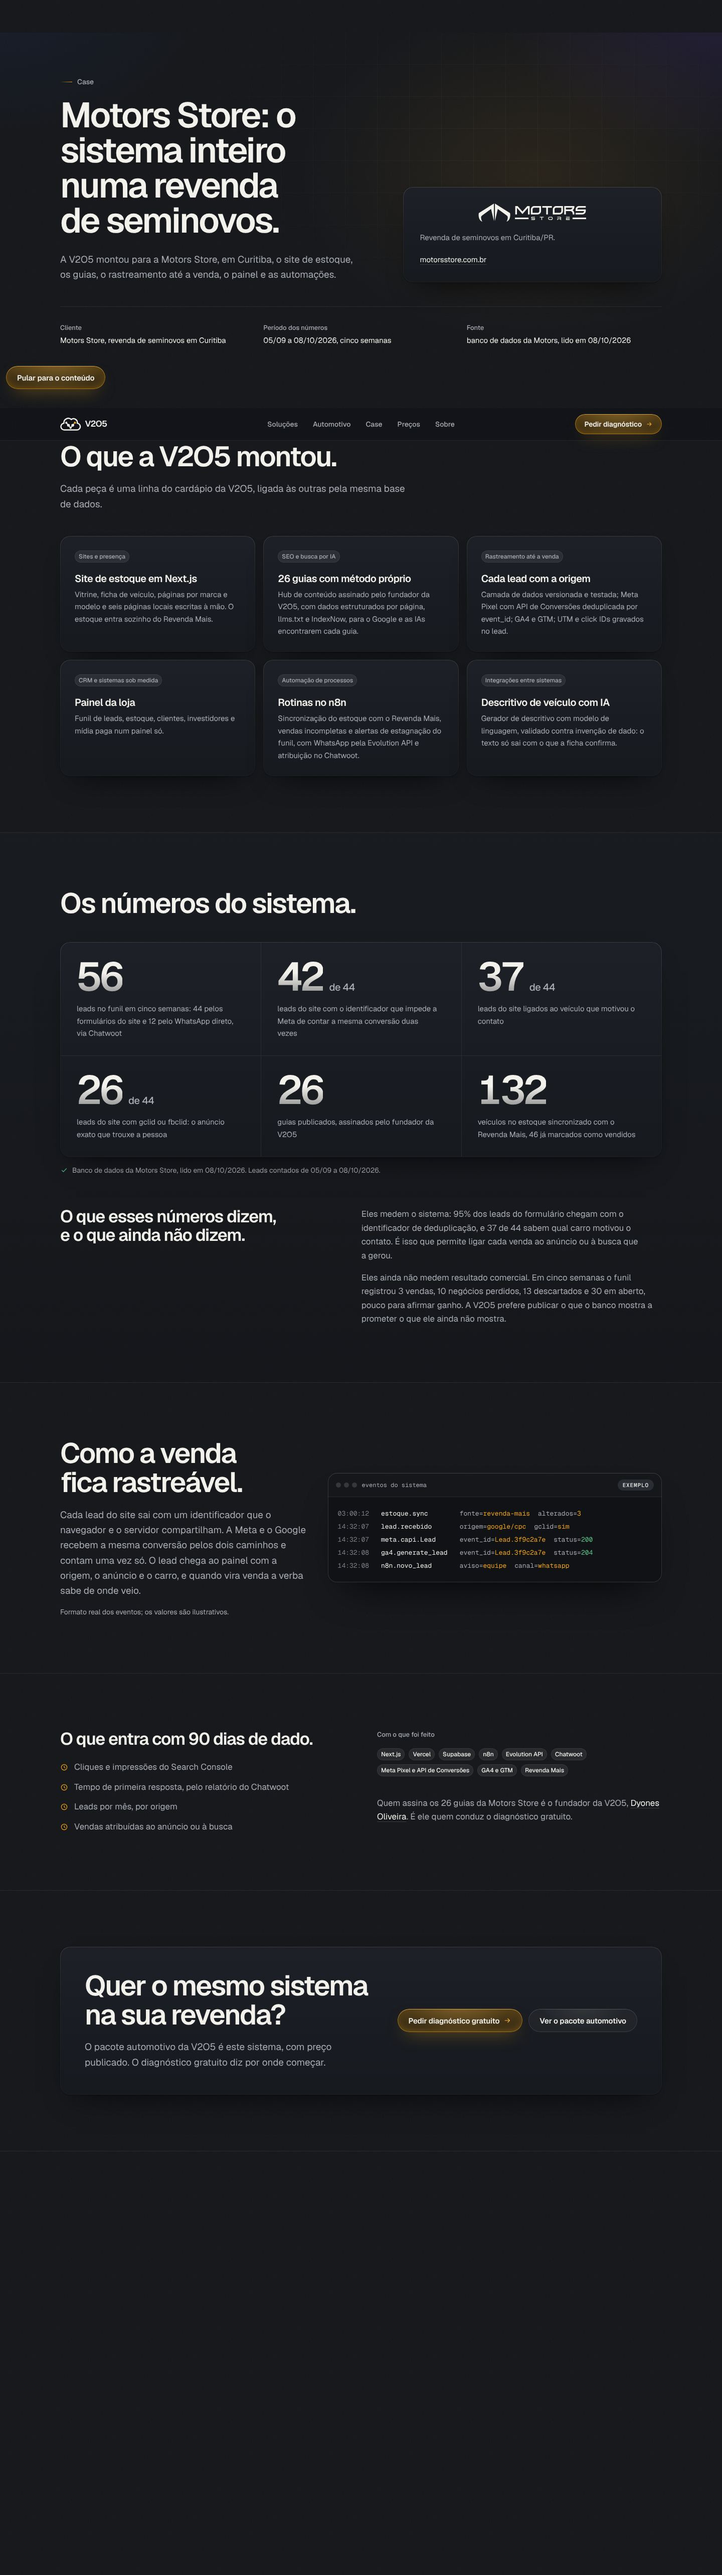
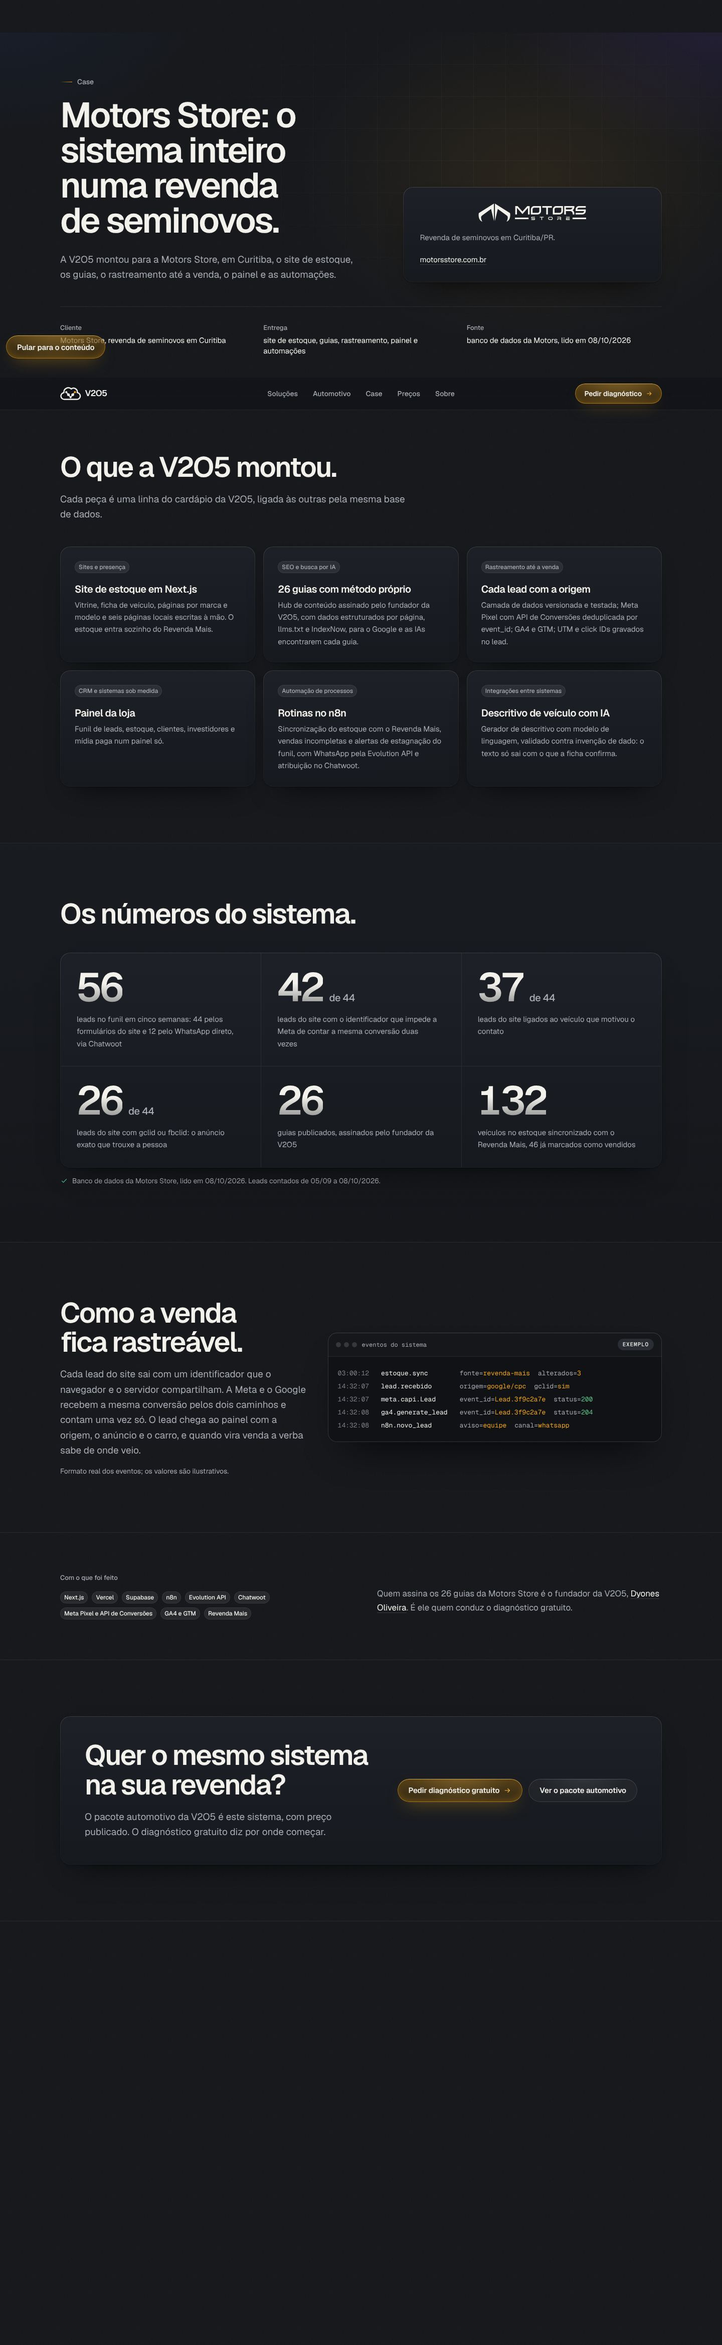
Case Motors: só número medido, sem ressalva nem promessa de dado futuro
Regra do Dyones (11/10): "não podemos usar parte do texto falando de dados
não medidos ou expectativa, clientes compram resultado". Saem do case o
bloco "O que esses números dizem, e o que ainda não dizem" (desfechos do
funil e "pouco para afirmar ganho") e o "O que entra com 90 dias de dado".
Ficam os seis números medidos, com fonte e período na linha de fonte. O
fato "Período dos números" vira "Entrega". Stack e assinatura ganham
seção própria. A regra entra no CLAUDE.md e `tests/case.test.ts` cobra.

Claude-Session: https://claude.ai/code/session_016U4jhnBTXDWyNvtdckLsv3

diff --git a/src/app/cases/motors-store/page.tsx b/src/app/cases/motors-store/page.tsx
@@ -116,16 +116,6 @@ export default function Pagina() {
               {c.numeros.fonte}
             </p>
 
-            <div className="mt-16 grid gap-8 lg:grid-cols-[1fr_1.1fr] lg:gap-14">
-              <h3 className="text-[clamp(1.5rem,1.2rem+1.2vw,2.125rem)] font-semibold leading-[1.1] tracking-[-0.035em]">
-                {c.leitura.titulo}
-              </h3>
-              <div className="grid gap-4 text-[1.0625rem] leading-relaxed text-secundario">
-                {c.leitura.paragrafos.map((p) => (
-                  <p key={p}>{p}</p>
-                ))}
-              </div>
-            </div>
           </div>
         </section>
 
@@ -142,23 +132,12 @@ export default function Pagina() {
           </div>
         </section>
 
-        <section aria-labelledby="titulo-proximos" className="border-t border-linha">
-          <div className="conteiner grid gap-12 py-20 md:py-28 lg:grid-cols-2 lg:gap-16">
+        <section aria-labelledby="titulo-stack" className="border-t border-linha">
+          <div className="conteiner grid gap-10 py-16 md:py-20 lg:grid-cols-2 lg:gap-16">
             <div>
-              <h2 id="titulo-proximos" className="text-[clamp(1.5rem,1.2rem+1.2vw,2.125rem)] font-semibold leading-[1.1] tracking-[-0.035em]">
-                {c.proximos.titulo}
+              <h2 id="titulo-stack" className="text-[0.8125rem] font-medium text-secundario">
+                {c.stack.titulo}
               </h2>
-              <ul className="mt-6 grid gap-3">
-                {c.proximos.itens.map((item) => (
-                  <li key={item} className="flex items-start gap-3 text-[1.0625rem] leading-relaxed text-secundario">
-                    <Icone nome="relogio" className="mt-1.5 size-4 shrink-0 text-ambar" />
-                    {item}
-                  </li>
-                ))}
-              </ul>
-            </div>
-            <div>
-              <h2 className="text-[0.8125rem] font-medium text-secundario">{c.stack.titulo}</h2>
               <ul className="mt-4 flex flex-wrap gap-2">
                 {c.stack.itens.map((item) => (
                   <li key={item} className="chip">
@@ -166,14 +145,14 @@ export default function Pagina() {
                   </li>
                 ))}
               </ul>
-              <p className="mt-10 text-[1.0625rem] leading-relaxed text-secundario">
-                {c.assinatura.split("Dyones Oliveira")[0]}
-                <Link href="/sobre" className="link-sublinhado text-papel">
-                  Dyones Oliveira
-                </Link>
-                {c.assinatura.split("Dyones Oliveira")[1]}
-              </p>
             </div>
+            <p className="text-[1.0625rem] leading-relaxed text-secundario lg:pt-7">
+              {c.assinatura.split("Dyones Oliveira")[0]}
+              <Link href="/sobre" className="link-sublinhado text-papel">
+                Dyones Oliveira
+              </Link>
+              {c.assinatura.split("Dyones Oliveira")[1]}
+            </p>
           </div>
         </section>
 

diff --git a/src/conteudo/case.ts b/src/conteudo/case.ts
@@ -6,6 +6,9 @@ import { CASE } from "@/conteudo/home";
  * leads de 05/09 a 08/10) e `tests/case.test.ts` confere. Nada de tempo de
  * resposta nem de atendimento até o Chatwoot da Motors ser corrigido.
  * Publicação de nome, logo e números autorizada pelo Dyones em 08/10.
+ * Regra do Dyones (11/10): só número medido, com fonte; sem ressalva sobre o
+ * que ainda não foi medido e sem promessa de dado futuro. Cliente compra
+ * resultado.
  */
 
 export const CASE_MOTORS = {
@@ -24,7 +27,7 @@ export const CASE_MOTORS = {
     "A V2O5 montou para a Motors Store, em Curitiba, o site de estoque, os guias, o rastreamento até a venda, o painel e as automações.",
   fatos: [
     { rotulo: "Cliente", valor: "Motors Store, revenda de seminovos em Curitiba" },
-    { rotulo: "Período dos números", valor: "05/09 a 08/10/2026, cinco semanas" },
+    { rotulo: "Entrega", valor: "site de estoque, guias, rastreamento, painel e automações" },
     { rotulo: "Fonte", valor: "banco de dados da Motors, lido em 08/10/2026" },
   ],
   construido: {
@@ -96,27 +99,11 @@ export const CASE_MOTORS = {
       },
     ],
   },
-  leitura: {
-    titulo: "O que esses números dizem, e o que ainda não dizem.",
-    paragrafos: [
-      "Eles medem o sistema: 95% dos leads do formulário chegam com o identificador de deduplicação, e 37 de 44 sabem qual carro motivou o contato. É isso que permite ligar cada venda ao anúncio ou à busca que a gerou.",
-      "Eles ainda não medem resultado comercial. Em cinco semanas o funil registrou 3 vendas, 10 negócios perdidos, 13 descartados e 30 em aberto, pouco para afirmar ganho. A V2O5 prefere publicar o que o banco mostra a prometer o que ele ainda não mostra.",
-    ],
-  },
   rastreio: {
     titulo: "Como a venda fica rastreável.",
     texto:
       "Cada lead do site sai com um identificador que o navegador e o servidor compartilham. A Meta e o Google recebem a mesma conversão pelos dois caminhos e contam uma vez só. O lead chega ao painel com a origem, o anúncio e o carro, e quando vira venda a verba sabe de onde veio.",
     exemplo: "Formato real dos eventos; os valores são ilustrativos.",
-  },
-  proximos: {
-    titulo: "O que entra com 90 dias de dado.",
-    itens: [
-      "Cliques e impressões do Search Console",
-      "Tempo de primeira resposta, pelo relatório do Chatwoot",
-      "Leads por mês, por origem",
-      "Vendas atribuídas ao anúncio ou à busca",
-    ],
   },
   stack: {
     titulo: "Com o que foi feito",

diff --git a/tests/case.test.ts b/tests/case.test.ts
@@ -33,7 +33,6 @@ describe("case Motors Store", () => {
     expect(memoria).toMatch(/\| Leads do site com `event_id` \| 42 de 44 \(95%\)/);
     expect(memoria).toMatch(/ligados ao veículo \| 38 \/ 37 de 44/);
     expect(memoria).toMatch(/com gclid ou fbclid \| 28 \/ 26 de 44/);
-    expect(memoria).toMatch(/\| Desfechos \| 3 ganhos, 10 perdidos, 13 descartados, 30 abertos/);
     expect(memoria).toMatch(/\| Guias publicados \| 26 \|/);
     expect(memoria).toMatch(/\| Estoque sincronizado \| 132 veículos, 46 marcados como vendidos/);
     expect(CASE_MOTORS.numeros.itens.map((n) => `${n.valor}${n.complemento ? ` ${n.complemento}` : ""}`)).toEqual([
@@ -44,21 +43,22 @@ describe("case Motors Store", () => {
       "26",
       "132",
     ]);
-    expect(CASE_MOTORS.leitura.paragrafos.join(" ")).toMatch(/3 vendas, 10 negócios perdidos, 13 descartados e 30 em aberto/);
-    expect(CASE_MOTORS.leitura.paragrafos.join(" ")).toMatch(/95%/);
     expect(CASE_MOTORS.construido.pecas.map((p) => p.titulo)).toContain("26 guias com método próprio");
   });
 
   it("a fonte e o período aparecem junto dos números, iguais aos da home", () => {
     expect(CASE_MOTORS.numeros.fonte).toBe(CASE.fonte);
-    expect(CASE_MOTORS.fatos.map((f) => f.valor).join(" ")).toMatch(/05\/09 a 08\/10\/2026/);
     expect(pagina).toContain("{c.numeros.fonte}");
   });
 
   it("não fala de atendimento nem de tempo de resposta como resultado", () => {
-    const corpo = JSON.stringify({ ...CASE_MOTORS, proximos: undefined });
-    expect(corpo).not.toMatch(/tempo de resposta|primeira resposta|respondido em|responde em/i);
-    expect(corpo).not.toMatch(/-70%|3\.4x|3,4x/);
+    expect(textoDoCase).not.toMatch(/tempo de resposta|primeira resposta|respondido em|responde em/i);
+    expect(textoDoCase).not.toMatch(/-70%|3\.4x|3,4x/);
+  });
+
+  it("só número medido: sem ressalva sobre o que não foi medido e sem promessa de dado futuro (Dyones, 11/10)", () => {
+    expect(textoDoCase).not.toMatch(/ainda não|pouco para afirmar|90 dias|entra com|vendas registradas|em aberto|descartad|perdid/i);
+    expect(pagina).not.toMatch(/leitura|proximos/);
   });
 
   it("só usa a marca da Motors com autorização registrada e com o logo do pacote da loja", () => {

diff --git a/memory/decisoes.md b/memory/decisoes.md
@@ -3,6 +3,7 @@
 Log datado. Decisão nova entra no topo do dia; decisão revogada fica riscada com a data da troca.
 
 ## 11/10/2026 (PR #3 em main; fluxo do n8n e case Motors)
+- Regra do Dyones, depois de ver o case: "não podemos usar parte do texto falando de dados não medidos ou expectativa, clientes compram resultado". Saíram do case o bloco "O que esses números dizem, e o que ainda não dizem" (3 vendas, 10 perdidos, 13 descartados, 30 em aberto, "pouco para afirmar ganho") e o "O que entra com 90 dias de dado". Ficam os seis números medidos, com fonte e período na linha de fonte. Vale para todo texto público; `tests/case.test.ts` cobra no case.
 - PR #3 mesclado por squash em `main` (5444d84) a pedido do Dyones ("Faça"). A branch `claude/gracious-euler-0qzedy` foi reiniciada a partir do `main`; rodada nova em PR novo.
 - Fluxo do n8n pronto para importar em `docs/n8n/lead-do-diagnostico.json` (LEIA-ME ao lado): webhook com Header Auth `X-V2O5-Segredo`, resposta 200 imediata ao site, aviso ao Dyones e resposta ao lead pela Evolution, contato criado ou atualizado no Chatwoot; e-mail de resposta desligado até o alias existir. Nenhuma chave no arquivo: credenciais por nome. `tests/n8n.test.ts` amarra os rótulos do fluxo aos do formulário.
 - Case Motors Store (`/cases/motors-store`) pronto e indexável: o que foi construído (seis peças, uma por linha do cardápio), seis números com fonte e período, leitura honesta (3 vendas em cinco semanas: mede sistema, não resultado comercial), como a venda fica rastreável (terminal de exemplo, agora componente `TerminalDeEventos` compartilhado com a home), o que entra com 90 dias, stack, assinatura do fundador, CTA para o diagnóstico e `/precos`. Logo da Motors como componente (`MarcaMotors`, do pacote de marca da loja). `Article` no schema, com `about` Motors Store e autor o fundador. Nada de atendimento nem tempo de resposta.

diff --git a/CLAUDE.md b/CLAUDE.md
@@ -37,7 +37,7 @@ Novo site da **V2O5 Vendas e Tecnologia** (substitui o WordPress de v2o5.com.br)
 ## Regras do projeto
 - Código, tabelas, commits e textos em português, como na Motors.
 - Texto público passa pelo humanizer: sem travessão, sem "não é X, é Y", sem tríades de efeito.
-- Nunca publicar número sem fonte. Os do case estão em `memory/projects/case-motors.md`, com período.
+- Nunca publicar número sem fonte. Os do case estão em `memory/projects/case-motors.md`, com período. E só número medido: texto público não fala do que ainda não foi medido nem promete dado futuro; cliente compra resultado (Dyones, 11/10).
 - Performance é promessa de venda: LCP é o título (nunca o canvas), motion carrega por seção, `prefers-reduced-motion` desliga tudo.
 - Commit com rodapé de coautoria; push só na branch designada da sessão.
 
